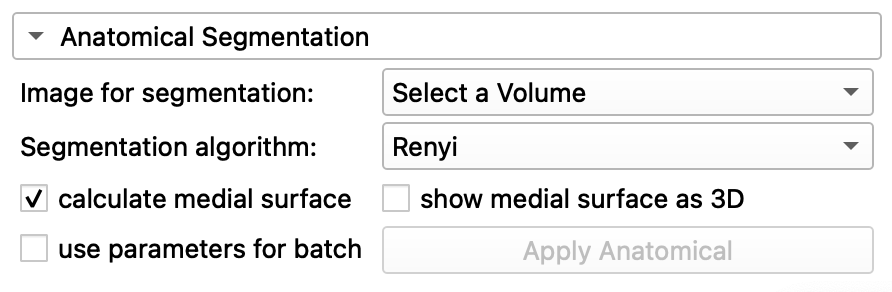
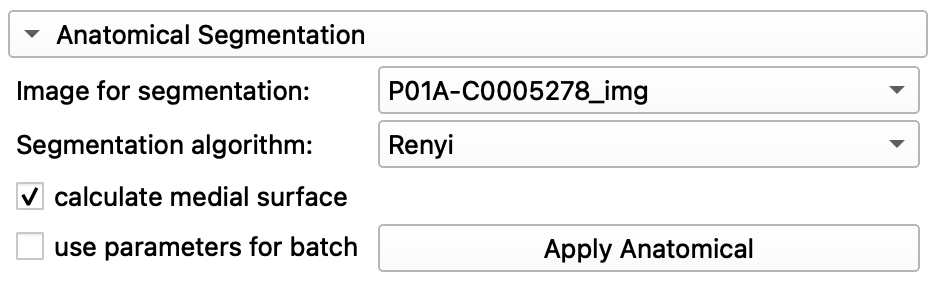
add documentation

diff --git a/doc/Tutorial.md b/doc/Tutorial.md
@@ -1,5 +1,17 @@
 # Tutorial
-This chapter provides a detailed description of the parameter settings and capabilities of the Tooth Analyser.  
+This chapter provides a detailed description of the parameter settings and capabilities of the Tooth Analyser.
+AUßerdem soll hier ein Leitfaden für die Benutzung des Tooth Analysers entstehen.
+
+## Table of contents
+- [1. Analytical Functions](#1-analytical-functions)
+- [2. Anatomical Segmentation](#2-anatomical-segmentation)
+- [3. Batch Processing](#3-batch-processing)
+- [4. Processing Mode](#4-processing-mode)
+- [5. Runtime](#5-runtime)
+- [6. Limitations](#6-limitations-)
+
+
+
 The extension is divided into several functions, each of which has been kept separate. As a result, they can also
 be executed independently of one another. This chapter covers all features and explains them in detail. Therefor
 we take a look on the UI to identify the main features:
@@ -7,46 +19,95 @@ we take a look on the UI to identify the main features:
 ![Screenshot of the application](/Screenshots/uiOverview.png)
 *Figure 1: Overview of the core Tooth Analyser features.*
 
-## Analytical
+## 1. Analytical Functions
 With the analytical functions, it is currently possible to create a histogram of the CT scan.
 A histogram shows how often different grayscale values appear in the image.  
 Additionally, the intensity on the X-axis indicates the image format (8UInt, 16Int, ...).
 
 **User Interface:**
 
-| Description                                                                                                                                                                                 | Parameters                                                                                                                                   |
-|----------------------------------------------------------------------------------------------------------------------------------------------------------------------------------|----------------------------------------------------------------------------------------------------------------------------------------------|
-| **Volume to be analyzed**: Select the CT scan you want to analyze here.<br/><br/>**Show Histogram**: If this option is selected, a histogram of the previously chosen image will be created. | ![Screenshot of the application](../Screenshots/slicerAnalyticsParameter.png)<br/>*Figure 2: Parameter selection for the analytical function* |
-
+| Description                                                                                                                                                                                                                                                                                                                                    | Parameters                                                                                                                                  |
+|------------------------------------------------------------------------------------------------------------------------------------------------------------------------------------------------------------------------------------------------------------------------------------------------------------------------------------------------|---------------------------------------------------------------------------------------------------------------------------------------------|
+| **Volume to be analyzed**: Select the CT scan you want to analyze here.<br/><br/>**Show Histogram**: If this option is selected, a histogram of the previously chosen image will be created.<br/><br/> **Apply Analytics:** This button apply the selected funktion to the selected image. The button is disabled, when no image is available. | ![Screenshot of the application](/Screenshots/slicerAnalyticsParameter.png)<br/>*Figure 2: Parameter selection for the analytical function* |
 
 **Results:**
-
-A histogram shows how often different grayscale values appear in the image. Additionally, the intensity on the X-axis
-indicates the image format (8UInt, 16Int, ...).
-
 
 | Description                                                                                                                                                           | Result View                                                                                                             |
 |-----------------------------------------------------------------------------------------------------------------------------------------------------------------------|-------------------------------------------------------------------------------------------------------------------------|
 | A histogram shows how often different grayscale values appear in the image. Additionally, the intensity on the X-axis indicates the image format (8UInt, 16Int, ...). This is helpful because the thresholding methods used for anatomical segmentation are based on the image histogram data. Examining the histogram can therefore facilitate the selection of the appropriate method.| ![Screenshot of the application](/Screenshots/resultHistogram.png)<br/>*Figure 3: Resul view ot the created histogram.* |
 
 
-## Anatomical Segmentation
+## 2. Anatomical Segmentation
 The anatomical segmentation is the core of this extension. It allows the automatic segmentation of the
 micro-CT image of a tooth into the main dental substances, dentin and enamel. Additionally, medial surfaces can
 be generated, which are important for the classification of cavities.
 
-| Description                                                                                                                                                                                                                                                                                                                                                                                                                 | Parameters                                                                                                                               |
-|------------------------------------------------------------------------------------------------------------------------------------------------------------------------------------------------------------------------------------------------------------------------------------------------------------------------------------------------------------------------------------------------------------------------------|------------------------------------------------------------------------------------------------------------------------------------------|
-| **Image for Segmentation**: Select the CT scan you want to segment here.<br/><br/> **Segmentation algorithm**: Choose the algorithm you want to use for segmentation.<br/><br/> **Calculate Medial Surface**: Calculates the medial surfaces of the dentin and enamel based on the segmentation.<br/><br/> **Show Medial Surface As 3D**: If the medial surfaces have been calculated, they can be displayed as a 3D model.  | ![Screenshot of the application](../Screenshots/slicerASParameter.png) <br/> *Figure 4: Parameter selection for anatomical segmentation* |
+**User Interface:**
+
+| Description                                                                                                                                                                                                                                                                                                                                                                                                                                                                       | Parameters                                                                                                                             |
+|-----------------------------------------------------------------------------------------------------------------------------------------------------------------------------------------------------------------------------------------------------------------------------------------------------------------------------------------------------------------------------------------------------------------------------------------------------------------------------------|----------------------------------------------------------------------------------------------------------------------------------------|
+| **Image for Segmentation**: Select the CT scan you want to segment here.<br/><br/> **Segmentation algorithm**: Choose the threshold algorithm you want to use for segmentation (Otsu, Renyi).<br/><br/> **Calculate Medial Surface**: Calculates the medial surfaces of the dentin and enamel based on the segmentation.<br/><br/> **Apply Anatomical:** This button apply the anatomical segmentation to the selected image. The button is disabled, when no image is available. | ![Screenshot of the application](/Screenshots/slicerASParameter.png) <br/> *Figure 4: Parameter selection for anatomical segmentation* |
 
 
-## Batch Processing
-In batch processing, the tested parameters can then be applied to a whole series of CT images. The Tooth Analyser
-will then create a directory in your file system where the images will be saved.
+After the algorithm has run, the result is immediately visible in the scene. The three views of
+the tooth (red, green, yellow) and a 3D model can then be seen.
+
+**Results:**
+
+| Description                                                                                                                                          | Result View                                                                                                                   |
+|------------------------------------------------------------------------------------------------------------------------------------------------------|-------------------------------------------------------------------------------------------------------------------------------|
+| To toggle individual segments, switch to the Data module (Module: Data) and use the visibility settings to deactivate specific elements. | ![Screenshot of the application](../Screenshots/Result.gif) <br/> *Figure 4: Parameter selection for anatomical segmentation* |
 
 
-| Description                                                                                                                                                                                                                                                        | Parameters                                                                                                                           |
-|---------------------------------------------------------------------------------------------------------------------------------------------------------------------------------------------------------------------------------------------------------------------|--------------------------------------------------------------------------------------------------------------------------------------|
-| **Load file from**: Select the folder where the CTs you want to process are located.<br/><br/> **Save files in**: Select the folder where the CTs will be saved after processing.<br/><br/> **Save files as**: Choose the format in which you want to save the CTs. | ![Screenshot of the application](../Screenshots/slicerBatchParameter.png)<br/> *Figure 3: Parameter selection for the batch function* |
 
-## Processing Mode
+## 3. Batch Processing
+In batch processing, the tested parameters can then be applied to a whole series of CT images.
+The Tooth Analyser
+will then create a directory in your file system where the images will be saved. Therefor exactly one checkbox
+of the *use parameters for batch* needs to be checked.
+
+**User Interface:**
+
+| Description                                                                                                                                                                                                                                                                                                                                                                                                                        | Parameters                                                                                                                           |
+|------------------------------------------------------------------------------------------------------------------------------------------------------------------------------------------------------------------------------------------------------------------------------------------------------------------------------------------------------------------------------------------------------------------------------------|--------------------------------------------------------------------------------------------------------------------------------------|
+| **Load file from**: Select the folder where the CTs you want to process are located.<br/><br/> **Save files in**: Select the folder where the CTs will be saved after processing.<br/><br/> **Save files as**: Choose the format in which you want to save the CTs.<br/><br/> **Apply Batch:** This button apply the selected funktion to a whole series of CT scans. the button is not active if no source and no target directory is specified and if more than one function has been selected for a batch process | ![Screenshot of the application](../Screenshots/slicerBatchParameter.png)<br/> *Figure 3: Parameter selection for the batch function* |
+
+**Results:**
+
+| Description  | Parameters                                                                                                                           |
+|--------------|-------------------------------------------------------------------|
+|              | ![Screenshot of the application](../Screenshots/slicerBatchParameter.png)<br/> *Figure 3: Parameter selection for the batch function* |
+
+
+## 4. Processing Mode
+When one of the features is executed, it may take some time for the algorithm to produce a
+result. The Tooth Analyzer then switches to Processing mode. This can be recognized by the
+progress bar, which appears at the bottom of the widget as soon as a calculation starts.
+The current processing step can be identified via the status bar above the progress bar.
+
+![Screenshot of the application](../Screenshots/progressBar.png)
+*Figure 4:* Progress bar and status message
+
+
+## 5. Runtime
+The anatomical segmentation is fundamentally a pipeline that combines many small
+algorithms. In the worst case, this can result in a runtime of up to 17 minutes. However,
+this runtime can be influenced by the following factors:
+
+- Size of the image (8UInt, 16Int)
+- Whether filtering of the image is necessary
+- Whether additional medial surfaces are calculated
+
+## 6. Limitations 
+In the Tooth Analyzer, images in any file format can generally be processed.
+Some possible file types include:
+
+- .ISQ
+- .mhd
+- .nii
+- .nrrd
+
+Compressed versions of these formats, such as *.nii.gz*, are also supported.
+However, all images must currently be in the *16-bit signed integer* format.
+If images are in a different format, the algorithm will still perform a segmentation,
+but the result will be incorrect and unusable.

diff --git a/doc/Explanation.md b/doc/Explanation.md
@@ -1,1 +1,99 @@
 # Explanation
+
+Dieses Kapitel soll das Verfahren der Anatomischen Segmentierung genauer erläutern
+und geht so in die Tiefe. Hierbei geht es nicht um die konkrete Implementierung, sondern
+vielmehr um die Funktionsweise.
+
+## Table of contents
+- [1. Loading an image](#1-loading-an-image)
+- [2. Smoothing an image](#2-smoothing-an-image)
+- [3. Extracting tooth from background](#3-extracting-the-tooth-from-the-background)
+- [4. Extracting enamel from tooth](#4-extracting-the-enamel-from-the-tooth)
+- [5. Extracting dentin from the rest](#5-extracting-the-dentin-form-the-rest)
+- [6. Creating label image](#6-creating-the-label-file)
+- [7. Creating medial surface enamel and dentin](#7-creating-medial-surface-for-enamel-and-dentin)
+
+Um den algorithmus besser zu verstehen seien hier die groben Schritte
+in der Pipelin gezeigt. Dieses Kapitel greift jeden dieser Schritte kurz auf und geht auf die
+wichtigsten merkmale ein.
+
+![pipeline](/Screenshots/ASAlgorithm.png)
+*Figure 1:* Pipeline steps for the anatomical segmentation of the CT scans
+
+
+## 1. Loading an image
+Mit dem Tooth analyser ist es prinzipel möglich, alle Bilder in den gängigen
+Formaten zu laden. In erster Linie ist dieses Verfahren aber für das -ISQ- Format
+für die Bilder der Firma [SCANCO MEDICAL](/https://www.scanco.ch) optimiert. Aus diesem
+Grund wird zwischen folgenden Formaten unterschieden.
+
+- .ISQ (original)
+- .mhd (meta image file)
+- all other files
+
+[Figure 1 Step 1](#table-of-contents)
+
+## 2. Smoothing an image
+Wenn ein Bild geladen wurde, uss es im nächsten Schritt gefiltert werden, wenn es
+noch keine filterung erhalten hat. Die Überprüfung, ob ein Bild bereits gefiltert wurde
+findet über die Standardabweichung eines bilds statt. Wenn diese unter und über einem gewissen
+Schwellwert liegt, dann wird das Bild als bereits gefiltert betrachte.
+
+Für die Filterung selber verwendet der Tooth Analyser eine Medial Filterung.
+Diese gehört zu der Gruppe der lokalen Operatoren und betrachtet die direkten Nachbarpixel um den
+geglätteten Grauwert für den aktuell betrachteten Pixel zu errechnen.
+
+[Figure 1 Step 2](#table-of-contents)
+
+## 3. Extracting the tooth from the background
+Nach dem ein Geglättetes Bild vorhanden ist. kann im nächsten Schritt der Zahn aus dem
+Hintergund gelöst werden. Hierfür wird das Schwellwertverfahren ausgewählt, das der User
+über die UI festlegen kann (Otsu, Renyi). Das Verfahre ermittelt dann einen optimalen Schwellwert
+und erstellt somit ein binäres bild, das zwischen dem Zahn und dem Hintergrund unterscheidet siehe
+figure 1.
+
+Im selben schritt wird anschließend eine maske erzeugt, die den zahn im Bild fokusiert.
+Diese makse wird auf das geglättete bild gelegt. So weise der nächste Schritt, welchen
+Teil er betrachten soll.
+
+[Figure 1 Step 3](#table-of-contents)
+
+## 4. Extracting the enamel from the tooth
+Mit der erstellten maske, kann nun das selbe Segmentierungsverfahrn wie im vorherigen
+Schritt angewendet werden, um das Schmelz segment aus dem Zahn herauszulösen. Die
+Segmentierung erfolgt wieder anhand der verschiedenen Grautöne. Das Ergebnis ist
+ein Layer in form des Schmelzes
+
+Zusätzlich finden noch Auffülungen und Kantenglättungen statt, die hier aber unberührt
+bleiben sollen.
+
+[Figure 1 Step 4](#table-of-contents)
+
+## 5. Extracting the dentin form the rest
+Nachdem das Schmel bereits erfolgreich aus dem Zahn extrahiert wurde ist die logische
+konsequenz, dass der Rest das Dentin bildet. Um das Dentin zu extrahieren nutzen der
+Tooth Analyser deshalb eine auf den ersten Blick einfache Technik. Er rechnet das Dentin
+einfach aus dem Übrigen Zahn herraus. Das ergebnis ist dann ein layer in form des Dentin.
+
+*Dentin = Tooth - Enamel*
+
+Auch in diesem Schritt finden weiter kleine glättungen und kantenerhaltenden algorithmen
+statt, die das Ergebnis noch weiter verbessern. Diese werden jedoch hier nicht weiter
+berücksichtig.
+
+[Figure 1 Step 5](#table-of-contents)
+
+## 6. Creating the label file
+In diesem letzten Schritt, der sich auf die Segmentierung bezieht, werden die Layer
+für Schmelz und Dentin, die in den Schritten 4. und 5. erstellt wurden zu einer
+gelabelten Datei zusammengefasst. Hier können auch Farbanpassungen gemacht werden.
+
+[Figure 1 Step 6](#table-of-contents)
+
+## 7. Creating Medial Surface for Enamel and Dentin
+Die erstellung der medial Flächen ist komplett losgelöst von der Segmentierung und im
+Tooth Analyser eine optionale Einstellung. Die Medialen Flächen werden vorallem zur
+Klassifizierung von Karies eingesetzt. Die Erstellung dieser Flächen ist über
+die Laplac interpolation realisert und ist Technisch für Dentin und Schmelz gleich.
+
+[Figure 1 Step 7 and 8](#table-of-contents)
